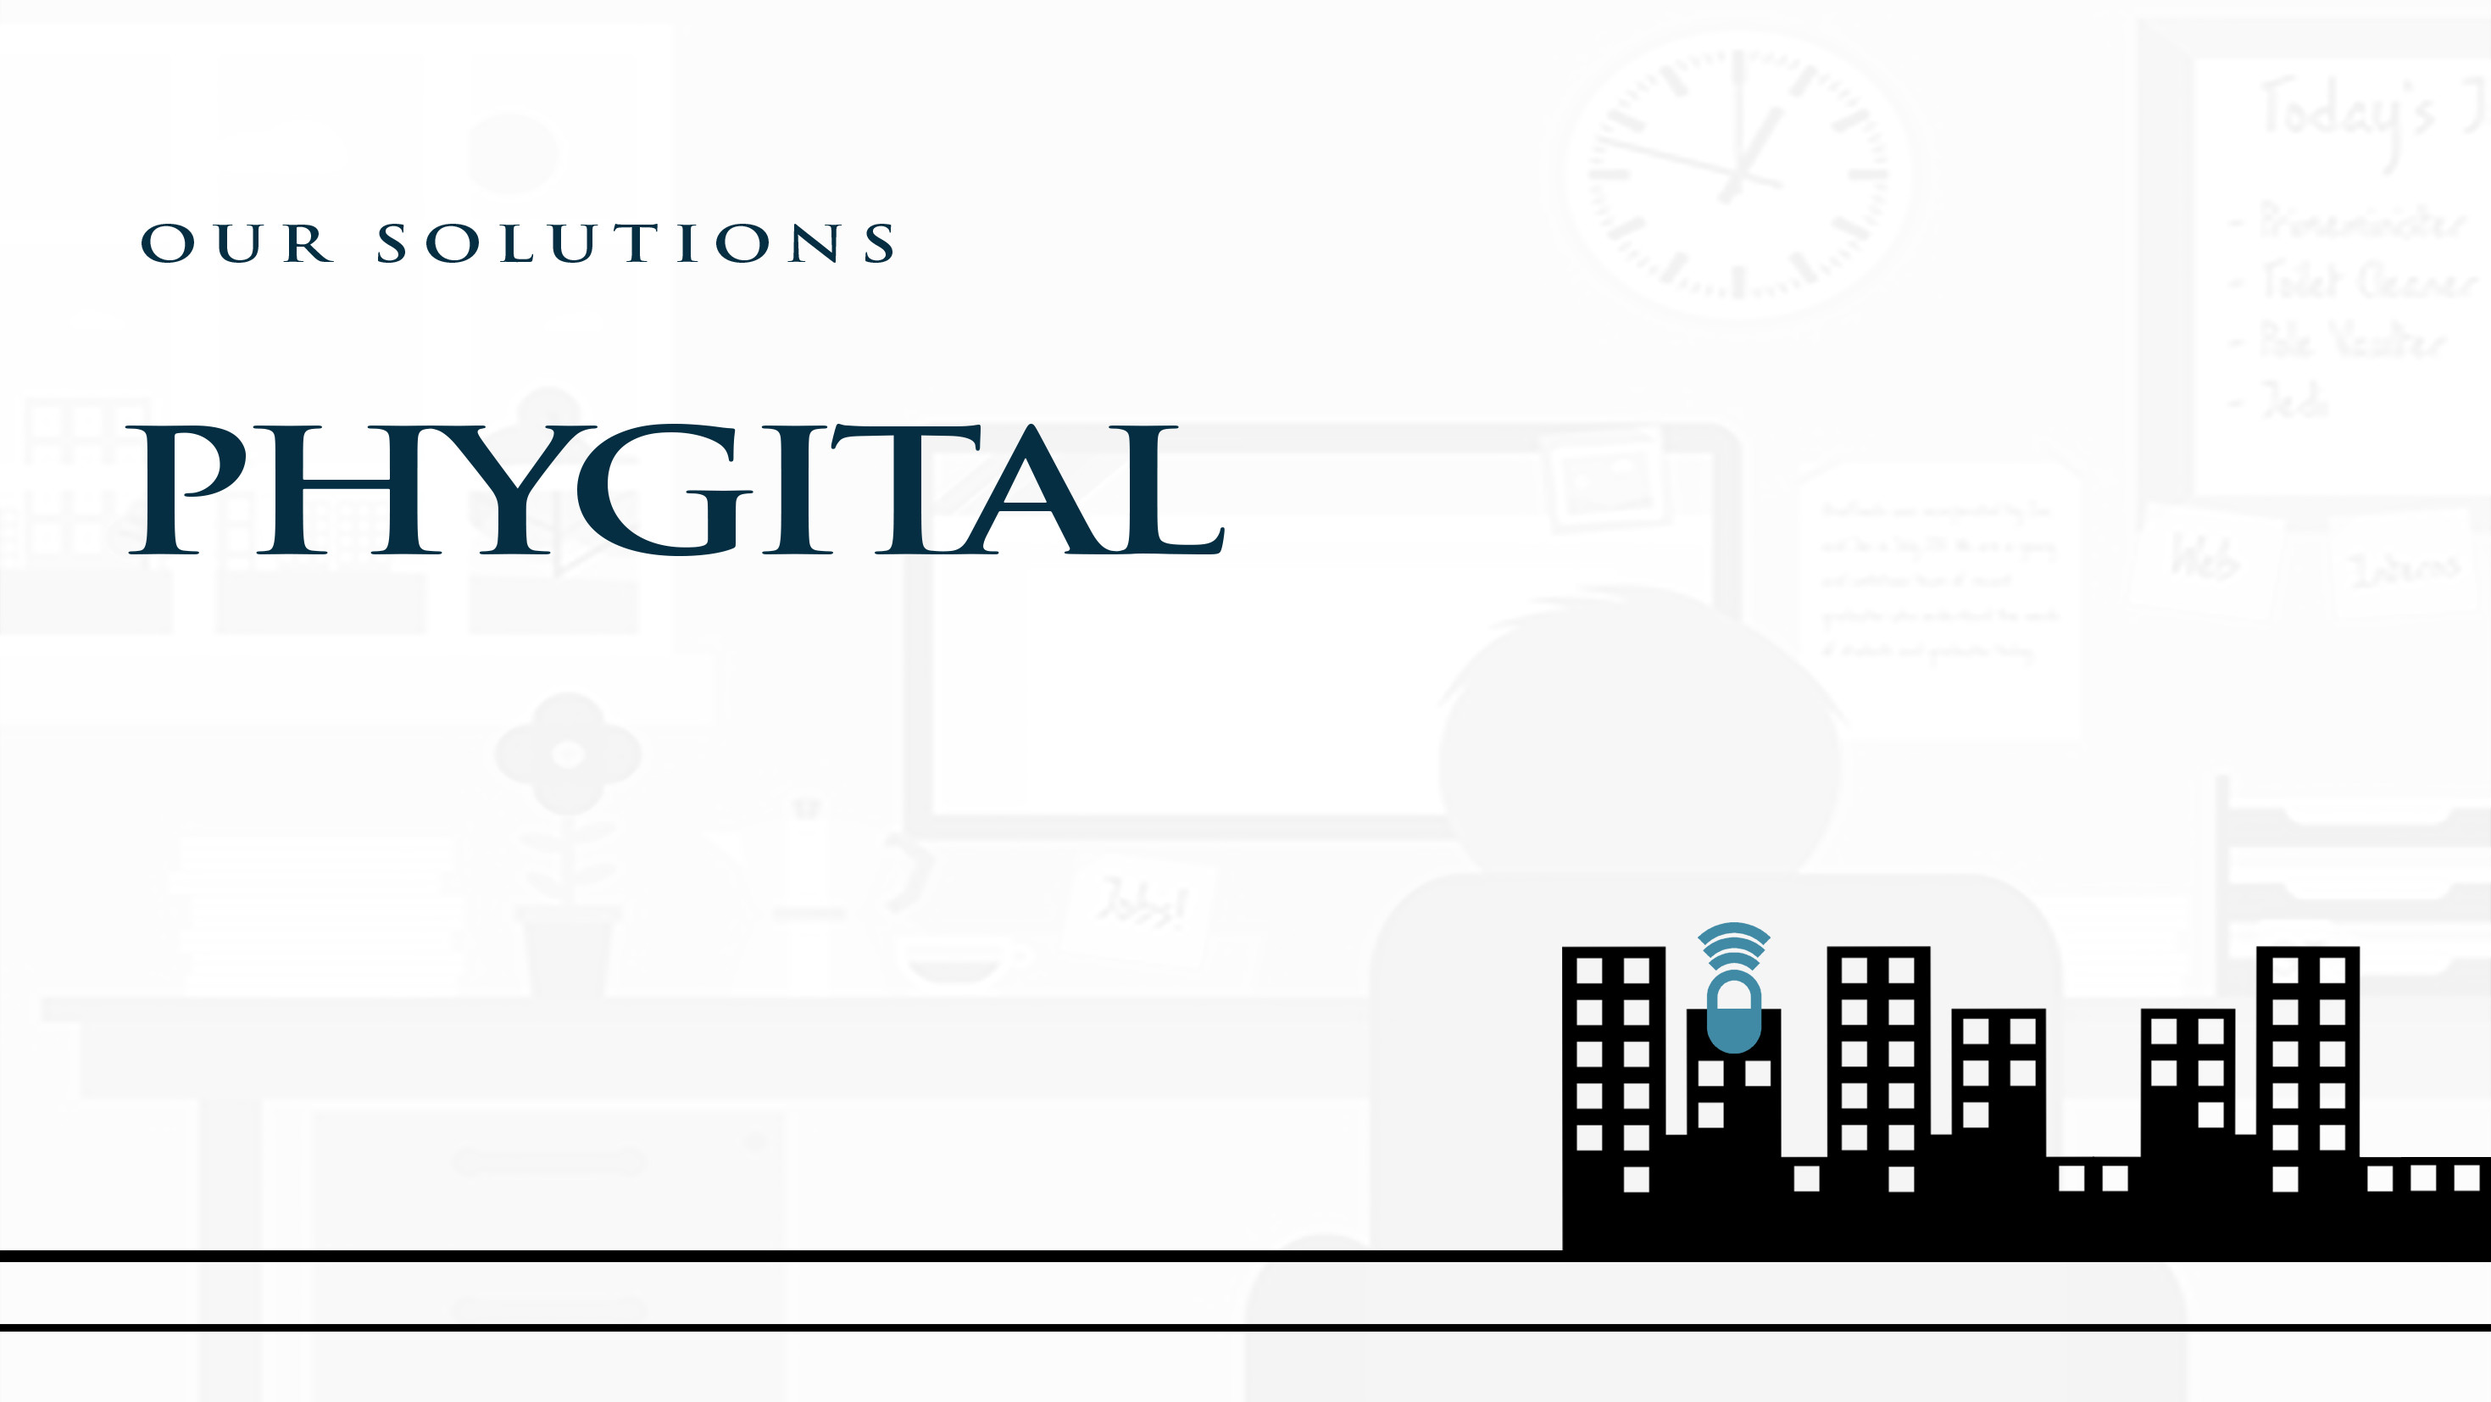
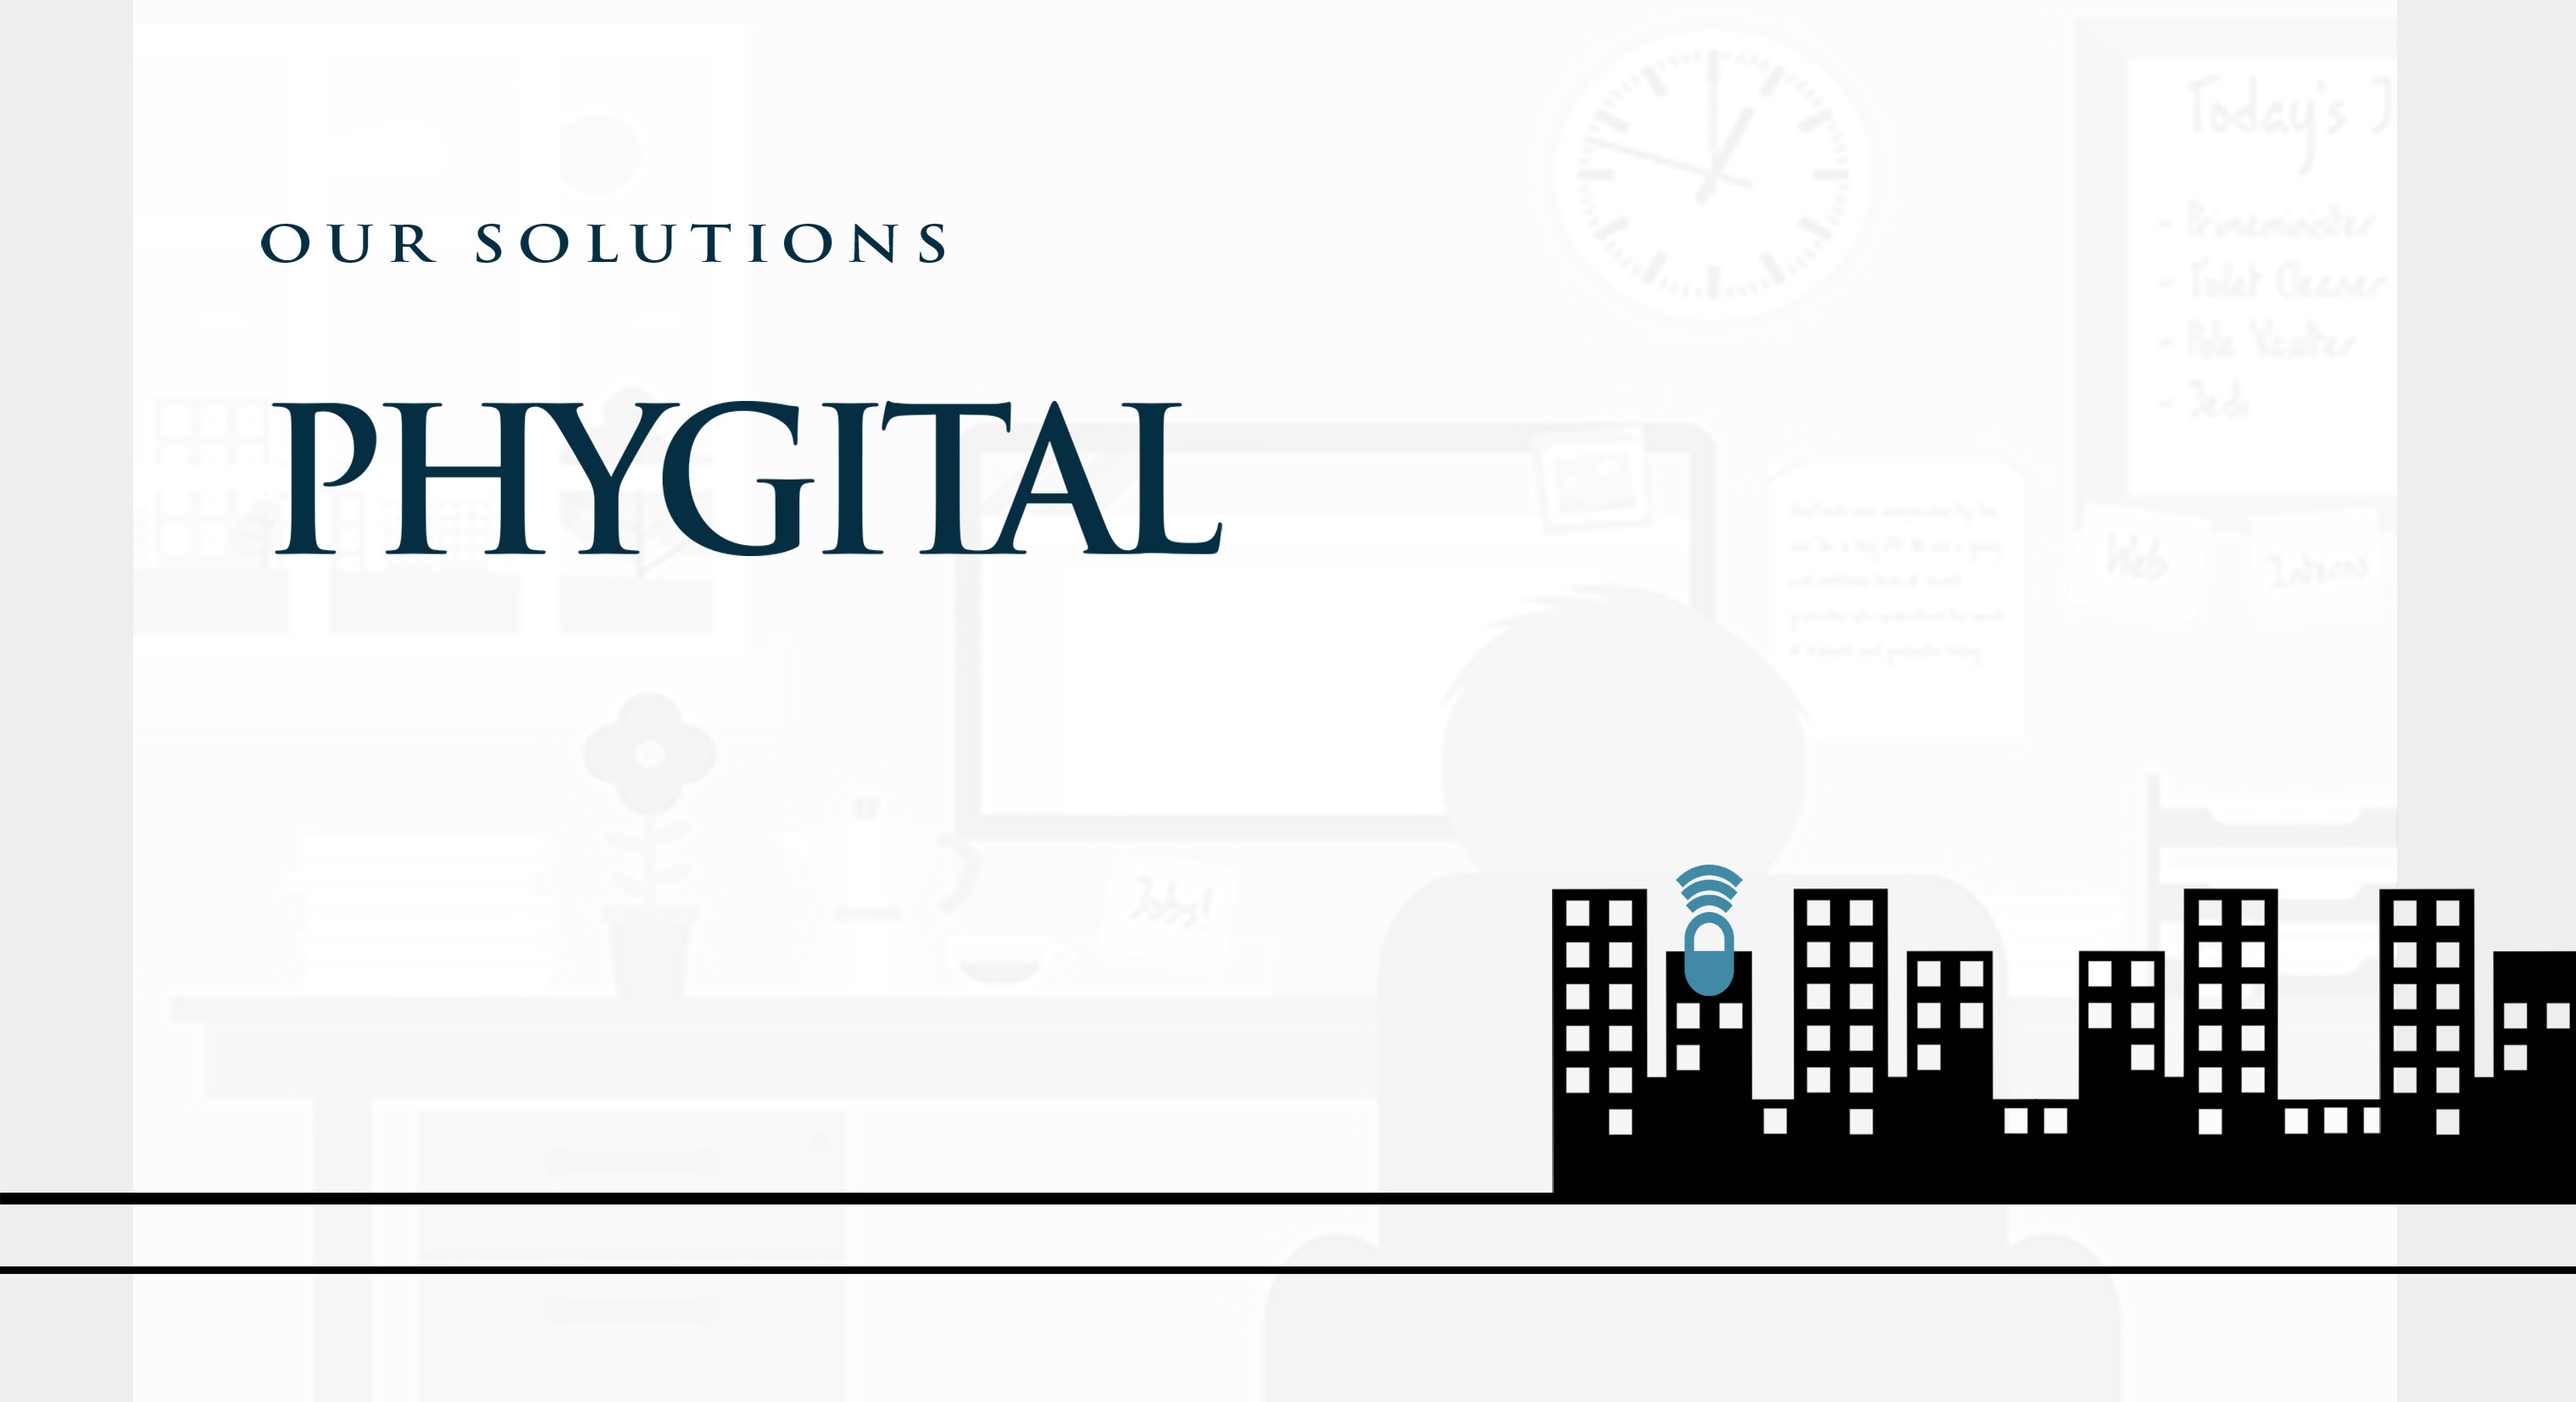
day 12.1

Changed region(s): [[0.0, 0.6167, 1.0, 0.9559], [0.031, 0.2775, 0.4954, 0.4008], [0.0619, 0.1542, 0.3716, 0.185]]

diff --git a/passingbuy/index.html b/passingbuy/index.html
@@ -1,8 +1,8 @@
 <!DOCTYPE html>
 <html>
 <head>
-	<title>passing</title>
-	<link rel="shortcut icon" type="image/icon" href="images/favicon.ico">
+	<title>Passing Buy</title>
+	<link rel="shortcut icon" type="image/icon" href="images/logo/logo.png">
 	<meta name="viewport" content="initial-scale=1.0,user-scalable=no,maximum-scale=1">
 	<!-- Bootstrap CSS-->
 	<link rel="stylesheet" type="text/css" href="css/bootstrap.css">
@@ -30,22 +30,26 @@
 <header>
 <nav class="navbar navbar-inverse navbar-fixed-top " id="head" style="transition: all 0.5s;">
   <div class="container">
-    <div class="navbar-header">
+    <div class="navbar-header" style="width: 60%;">
       <button type="button" class="navbar-toggle" data-toggle="collapse" data-target="#myNavbar">
         <span class="icon-bar"></span>
         <span class="icon-bar"></span>
         <span class="icon-bar"></span> 
       </button>
-      <div class="col-xs-4" style="padding-top:5px;width: 300px;">
-      	<a href="index.html"><img src="images/logo/Logo.png">
-      	<h2>Passing Buy</h2>
+      	<a href="index.html">
+      		<div class="col-xs-4">
+		      	<h2>Passing Buy</h2>
+      		</div>
+      		<div class="col-xs-5"></div>
+      		<div class="col-xs-3">
+      			<img src="images/logo/logowhite.png" id="mainlogo" class="pull-right">
+      		</div>
       	</a>
-      </div>
     </div>
     <div class="collapse navbar-collapse" id="myNavbar">
-      <ul class="nav navbar-nav navbar-right">
-        <li><a href="work.html">About Us</a></li>
-        <li><a href="expertise.html">What We Do?</a></li><!-- 
+      <ul class="nav navbar-nav" style="width: 40%;float: right;">
+        <li class="pull-right"><a href="work.html">About Us</a></li>
+        <li class="pull-right"><a href="expertise.html">What We Do?</a></li><!-- 
         <li><a href="about.html">About</a></li> 
         <li><a href="news.html">News</a></li>  -->
       </ul>
@@ -175,7 +179,7 @@
 
 	<!-- SECTION 4 -->
 	<div class="section sec_4">
-	<div class="container">
+	<div class="container-fluid ">
 		<div class="slide">
 			<div class="container">
 				<div class="row" style="padding-top: 500px;">
@@ -395,7 +399,7 @@
 				scrollHorozontally: true,
 				navigation: true,
 				navigationPosition: 'right',
-				navigationTooltips: ['firstSlide', 'secondSlide'],
+				// navigationTooltips: ['firstSlide', 'secondSlide'],
 
 			});
 		});
@@ -405,12 +409,12 @@
 <script>	 
 $(document).ready(function() {
         $(window).scroll(function() {
-            if ($(this).scrollTop() > 1) {
+            if ($(this).scrollTop() > 300) {
                 $('#head').addClass('transhead');
                 // $('.fp-slidesNav ul li a span').css("background", "#021268");
                 // $('#head').removeClass('navbar-inverse');
             }
-            else {
+            else if($(this).scrollTop() < 400) {
                 $('#head').removeClass('transhead');
                 // $('#head').addClass('navbar-inverse');
                 

diff --git a/passingbuy/css/style.css b/passingbuy/css/style.css
@@ -9,42 +9,48 @@ header{
 	width: 100%;
     transition: all 0.5s ease !important;
 }
+navbar-nav{
+  width: 100%;
+}
 .transhead{
     transition: all 0.5s ease !important;
   /*border: solid red thin !important;*/
 }
 .transhead .navbar-header img{
-      transition: all 0.5s ease !important;
-  height: 40px !important;
-  width: 40px !important;
-  margin: 0px !important;
+  transition: all 0.5s ease !important;
+  height: 32px !important;
+  width: 80px !important;
+  margin-top: 10px !important;
   margin-bottom: 0px !important;
-  margin-top: 2px !important; 
+  margin-right: 60px !important;
+  /*border:solid thin red;*/
+  /*padding-right: 20px !important;*/
 }
 .transhead .navbar-header h2{
   transition: all 0.5s ease !important;
   font-size: 24px !important;
-  margin-top: 8px !important;
+  margin-top: 13px !important;
 }
 .transhead #myNavbar a{
   transition: all 0.5s ease !important;
   font-size: 20px !important;
-  margin-top: 4px !important;
+  margin-top: 2px !important;
 }
 #head{
   transition: all 0.5s ease;
 }
 #head img{
   transition: all 0.5s ease !important;
-  height: 60px;
-  width: 60px;
-  margin: 8px;
-  float: left;
+  height: 45px;
+  width: 120px;
+  margin-top: 20px;
+  margin-right: 43px;
+  margin-bottom: 17px;
 }
 #head h2{
   transition: all 0.5s ease !important;
   margin: 0px;
-  margin-top:15px;
+  margin-top:18px;
   margin-left: 12px;
   padding: 0px;
   font-size: 35px;
@@ -53,7 +59,7 @@ header{
 }
 #myNavbar a{
   font-size: 20px;
-  margin-top: 15px;
+  margin-top: 18px;
   padding-right: 20px;
   padding-left: 20px;
 }
@@ -282,7 +288,7 @@ header{
   background-color: #eeeeee;
 
     background-repeat: no-repeat;
-    background-size: contain;
+    background-size: cover;
 }
 #wifisignal{
   position: absolute;
